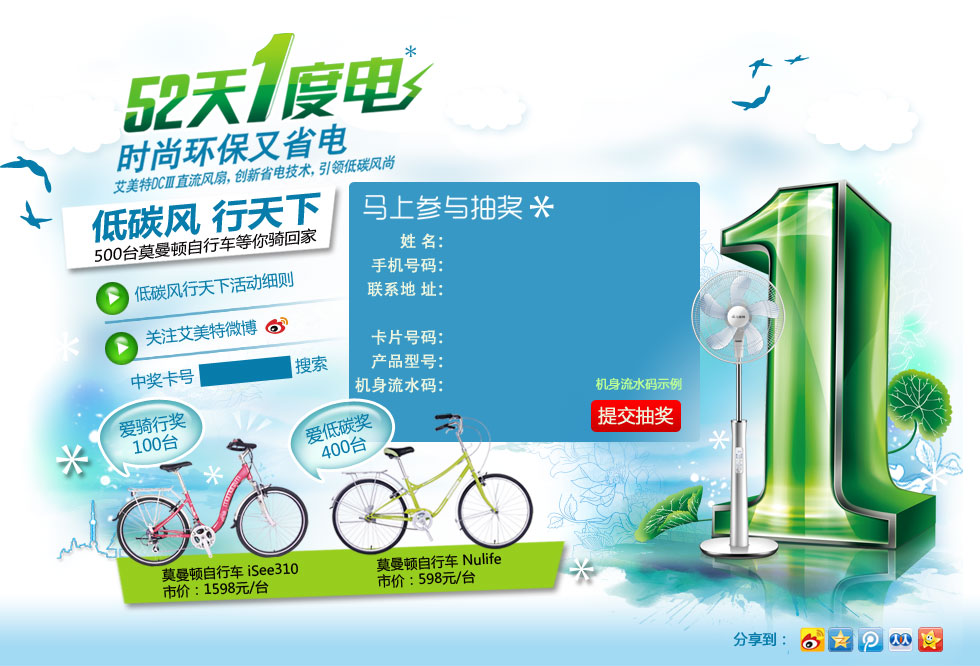
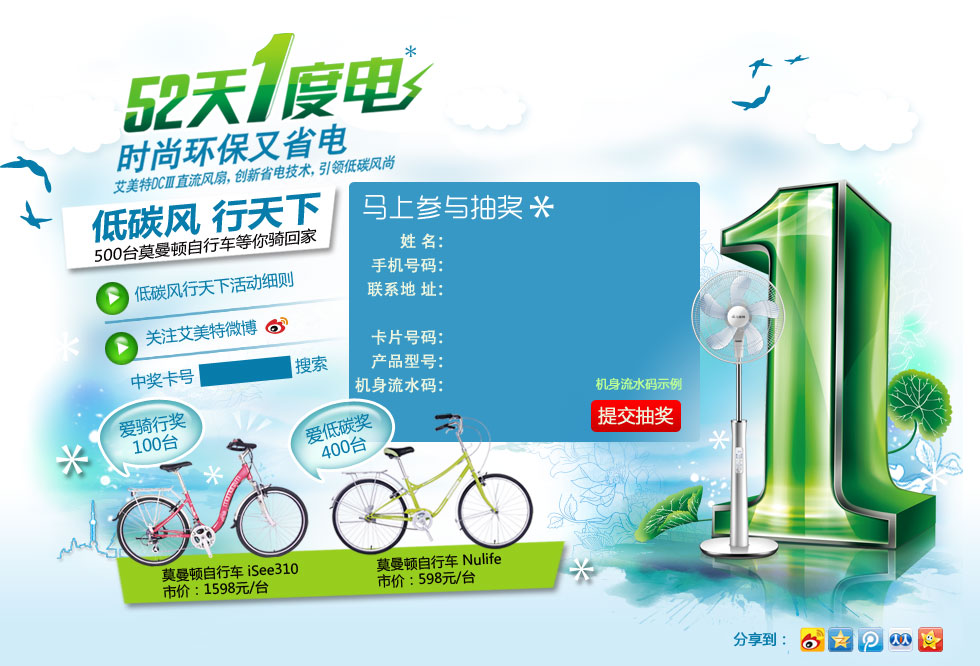
1.0.1

Changed region(s): [[0.0, 0.8108, 1.0, 1.0], [0.3673, 0.3003, 0.551, 0.3303], [0.6735, 0.8709, 0.7041, 0.9009]]

diff --git a/css/base.css b/css/base.css
@@ -46,8 +46,8 @@ ul{
     position: absolute;left: 45px;top:15px;
 }
 .g-logo h1{
-    width: 127px;height: 29px;overflow: hidden;
-    background: url(../images/logo.png);
+    width: 127px;height: 29px;
+    background: url(../images/logo.png);overflow: hidden;
 }
 
 .g-nav{
@@ -65,6 +65,7 @@ ul{
     vertical-align: middle;
     color: #2c97b7;
     display: block;
+    font-family: "微软雅黑";
 }
 .g-nav em{
     display: inline-block;vertical-align: middle;
@@ -82,7 +83,7 @@ ul{
 
 /*-----------------home.html-----------------------*/
 .g-x{
-    background: #a2d9f3  url(../images/x.png) repeat-x;
+    background: #d4eefa  url(../images/x.png) repeat-x;
 }
 .g-c{
     position: relative;
@@ -145,43 +146,24 @@ ul{
     position: absolute;left:0;top:143px;
 }
 #submit{
-    position: absolute;
-    left: 141px;
-    top:168px;
-    width: 90px;
-    height: 32px;
-    overflow: hidden;
+    position: absolute;left: 141px;top:168px;
+    width: 90px;height: 32px;
     background: none;
-    cursor: pointer;
-    text-indent: 99999px;
 }
 #example{
-    position: absolute;left:143px;top:144px;
-    width: 86px;height: 20px;font-size: 20px;line-height: 20px;z-index:100;
-}
-#example img{
-
-    position: absolute;
-    left: -60px;
-    bottom: 20px;
-    width: 208px;
-    height: 109px;
-    display: none;
-
-    /*position:absolute;left:-119px;bottom:20px;
-    width:323px;height:232px;
-    display:none;*/
+    position: absolute;left:143px;top:146px;
+    width: 86px;height: 13px;font-size: 13px;line-height: 13px;
 }
 /*simulate select*/
 .sim-selector{
     padding-left:3px;height:19px;line-height: 19px;
-    background:#edf6fa url(../images/common.png) right -47px;cursor: pointer;
+    background:#edf6fa url(../images/common.png) right -47px;
 }
 .sim-opt{
     padding-left:3px;background: #edf6fa;overflow-y: scroll;
 }
 .sim-opt dd{
-    border-bottom: 1px solid #ddd;cursor: pointer;
+    border-bottom: 1px solid #ddd;
 }
 
 .tips-wrap{
@@ -193,11 +175,11 @@ ul{
     width: 100%;height: 100%;
     background: #000;opacity: 0.3;filter:alpha(opacity=30);
 }
-.tips-wrap .tips-content{
-    z-index: 10;position: absolute;
-}
 .tips-content .tl,.tips-content .tr,.tips-content .bl,.tips-content .br{
     width: 12px;height: 12px;background: url(../images/pop.png);
+}
+.h12{
+    width: 12px;height: 12px;font-size:12px;line-height:12px;
 }
 .tips-content .tr{
     background-position: -14px 0;
@@ -219,16 +201,16 @@ ul{
 }
 
 .error-title{
-    margin:0 0 10px 50px;
+    margin:0 0 10px 30px;
 }
 .error-list{
     margin-left: 50px;
-    list-style: none;
+    list-style-position: inside;
     color: #eb0000;
 }
-/*.error-list li{
+.error-list li{
     cursor: pointer;
-}*/
+}
 
 .result-suc{
     width: 584px;height: 363px;
@@ -239,7 +221,7 @@ ul{
 }
 .result-suc div,.result-suc p{
     width: 510px;margin: 0 auto;
-    font:14px/24px "微软雅黑","宋体";
+    font:14px/24px "微软雅黑";
 }
 .result-suc a{
     color: #0066ff;
@@ -254,9 +236,10 @@ ul{
 }
 .result-fail p{
     text-align: center;
-    font:34px/38px "微软雅黑","宋体";
+    font:34px/38px "微软雅黑";
     color: #4e9c00;
 }
+
 .result-suc .award{
     background: url(../images/award.png);
     width: 536px;margin: 10px auto;
@@ -265,4 +248,102 @@ ul{
 }
 .result-suc .award i{
     color: #663300;
+}
+
+/*------------------product.html--------------------------*/
+.g-c3{
+    height: 666px;position: relative;
+}
+.p-slide{
+    position: absolute;top: 219px;left: 127px;
+    width: 798px;height: 378px;
+}
+.p-nav{
+    position: absolute;left: 0;top: 8px;
+    width: 137px;
+}
+.p-nav a{
+    display: block;
+    background-image:url(../images/pnav.png);
+}
+.p-nav-1{
+    height: 58px;
+    background-position: 0 0;
+}
+.act .p-nav-1{
+    background-position: -137px 0;
+}
+.p-nav-2{
+    height: 50px;
+    background-position: 0 -59px;
+}
+.act .p-nav-2{
+    background-position: -137px -58px;
+}
+.p-nav-3{
+    background-position: 0 -109px;
+    height: 51px;
+}
+.act .p-nav-3{
+    background-position: -137px -109px;
+}
+.p-nav-4{
+    background-position: 0 -160px;
+    height: 51px;
+}
+.act .p-nav-4{
+    background-position: -137px -160px;
+}
+.p-nav-5{
+    background-position: 0 -211px;
+    height: 50px;
+}
+.act .p-nav-5{
+    background-position: -137px -211px;
+}
+.p-nav-6{
+    background-position: 0 -262px;
+    height: 52px;
+}
+.act .p-nav-6{
+    background-position: -137px -262px;
+}
+
+
+
+.p-container{
+    position: absolute;right: 0;top:0;overflow: hidden;
+    width: 631px;height: 378px;
+}
+.p-block{
+    width: 100%;height: 100%;
+    position: absolute;top:0;left:0;width: 0;
+}
+.p-block-1{
+    left: 0;width: 631px;
+}
+.unvisiable{
+    opacity: 0;
+    filter:alpha(opacity=0);
+}
+
+/*----------------------compete.html--------------------------*/
+.g-x3{
+    background:#d1ecf9 url(../images/x3.png) repeat-x;
+}
+.c-nav{
+    position: absolute;top:180px;right:180px;
+}
+.c-nav li{
+    float: left;display: inline;width: 108px;
+}
+.c-nav a{
+    color: #077cab;font-size: 16px;line-height: 18px;
+}
+.c-nav .act a{
+    color: #8ecb20;
+}
+.c-cpn{
+    width: 837px;height: 378px;
+    position: absolute;top: 219px;left:75px;
 }

diff --git a/protected/views/site/activity.php b/protected/views/site/activity.php
@@ -8,13 +8,14 @@ $lotteryDraw = $this->createUrl('lotteryDraw');
     <div class="bg"></div>
     <table class="tips-content">
         <tr>
-            <td class="tl"></td>
+            <td class="tl" width="12"></td>
             <td class="bg2"><a class="clz" id="clz" href="#"></a></td>
-            <td class="tr"></td>
+            <td class="tr" width=12></td>
         </tr>
         <tr>
-            <td colspan="3" class="bg2 tips-box">
-            </td>
+            <td class="bg2"></td>
+            <td class="bg2 tips-box"></td>
+            <td class="bg2"></td>
         </tr>
         <tr>
             <td class="bl"></td>
@@ -62,10 +63,10 @@ $lotteryDraw = $this->createUrl('lotteryDraw');
             <input type="text" class="input1" id="card" name="Customer[num_card]">
             <input type="text" class="input1" id="product" name="Customer[num_product]">
             <input type="text" class="input3" id="number" name="Customer[num_flow]">
-            <a id="example" href="javascript:;">
-                <img src="images/example.png">
-            </a>
-            <input type="submit" value="lottery draw" id="submit" title="填完资料后,点击提交抽奖">
+            <a id="example" href="" style="display: block;background-color: #fff;"></a>
+            <img id="exampleImage" src="images/example.png" style="display: none;position: absolute;z-index: 1024;width: 208px;height: 109px;">
+            <input type="submit" id="submit" title="填完资料后,点击提交抽奖" style="display: block;background-color: #fff;cursor: pointer;">
+            <script type="text/javascript">$('#example').css('opacity', 0);$('#submit').css('opacity', 0);</script>
         </form>
     </div>
 </div>
@@ -166,9 +167,19 @@ $lotteryDraw = $this->createUrl('lotteryDraw');
                 Tips.show(2,Tips._serilaError(errorMap));
             }
         })
-        var _img = $("#example>img");
-        var _timer;
-        $("#example").bind("click",function(){
+        var example = $('#example');
+        var position = example.position();
+        var left = position.left;
+        var top = position.top;
+        var width = example.width();
+        var _img = example.next();
+        var imgWidth = _img.width();
+        var imgHeight = _img.height();
+        var imgLeft = left - (imgWidth - width) / 2;
+        var imgTop = top - imgHeight - 2;
+        _img.css({left: imgLeft, top: imgTop});
+        $("#example").bind("click",function(event){
+            event.preventDefault();
             _img.toggle();
         }).bind("mouseleave",function(){
              _img.hide();

diff --git a/protected/views/site/detail.php b/protected/views/site/detail.php
@@ -20,13 +20,13 @@ $activity = $this->createUrl('activity');
     <div class="g-c">
         <img src="<?php echo "{$baseUrl}/images/bg3.jpg"; ?>" usemap="#bg3">
         <map name="bg3" id="bg3">
-            <area shape="poly" coords="456,80,703,63,696,125,454,147" href="<?php echo $activity; ?>">
-            <area shape="poly" coords="528,554,617,554,617,585,528,585" href="<?php echo $activity; ?>">
-            <area shape="rect" coords="813,627,840,652" href="#" data-key="sinablog" title="分享到新浪微博">
-            <area shape="rect" coords="844,627,870,652" href="#" data-key="qzone" title="分享到QQ空间">
-            <area shape="rect" coords="873,627,899,652" href="#" data-key="txblog" title="分享到腾讯微博">
-            <area shape="rect" coords="903,627,929,652" href="#" data-key="rr" title="分享到人人">
-            <area shape="rect" coords="933,627,957,652" href="#" data-key="wy" title="分享到网易微博">
+            <area shape="poly" coords="418,80,685,63,678,125,436,147" href="<?php echo $activity; ?>">
+            <area shape="poly" coords="513,555,603,555,603,587,513,587" href="<?php echo $activity; ?>">
+            <area shape="rect" coords="800,627,826,652" href="#" data-key="sinablog" title="分享到新浪微博">
+            <area shape="rect" coords="830,627,856,652" href="#" data-key="qzone" title="分享到QQ空间">
+            <area shape="rect" coords="860,627,886,652" href="#" data-key="txblog" title="分享到腾讯微博">
+            <area shape="rect" coords="890,627,916,652" href="#" data-key="rr" title="分享到人人">
+            <area shape="rect" coords="920,627,944,652" href="#" data-key="wy" title="分享到网易微博">
         </map>
     </div>
 </div>

diff --git a/index.php b/index.php
@@ -5,7 +5,7 @@ $yii=dirname(__FILE__).'/yii/yii.php';
 $config=dirname(__FILE__).'/protected/config/main.php';
 
 // remove the following lines when in production mode
-defined('YII_DEBUG') or define('YII_DEBUG',true);
+defined('YII_DEBUG') or define('YII_DEBUG',TRUE);
 // specify how many levels of call stack should be shown in each log message
 defined('YII_TRACE_LEVEL') or define('YII_TRACE_LEVEL',3);
 
